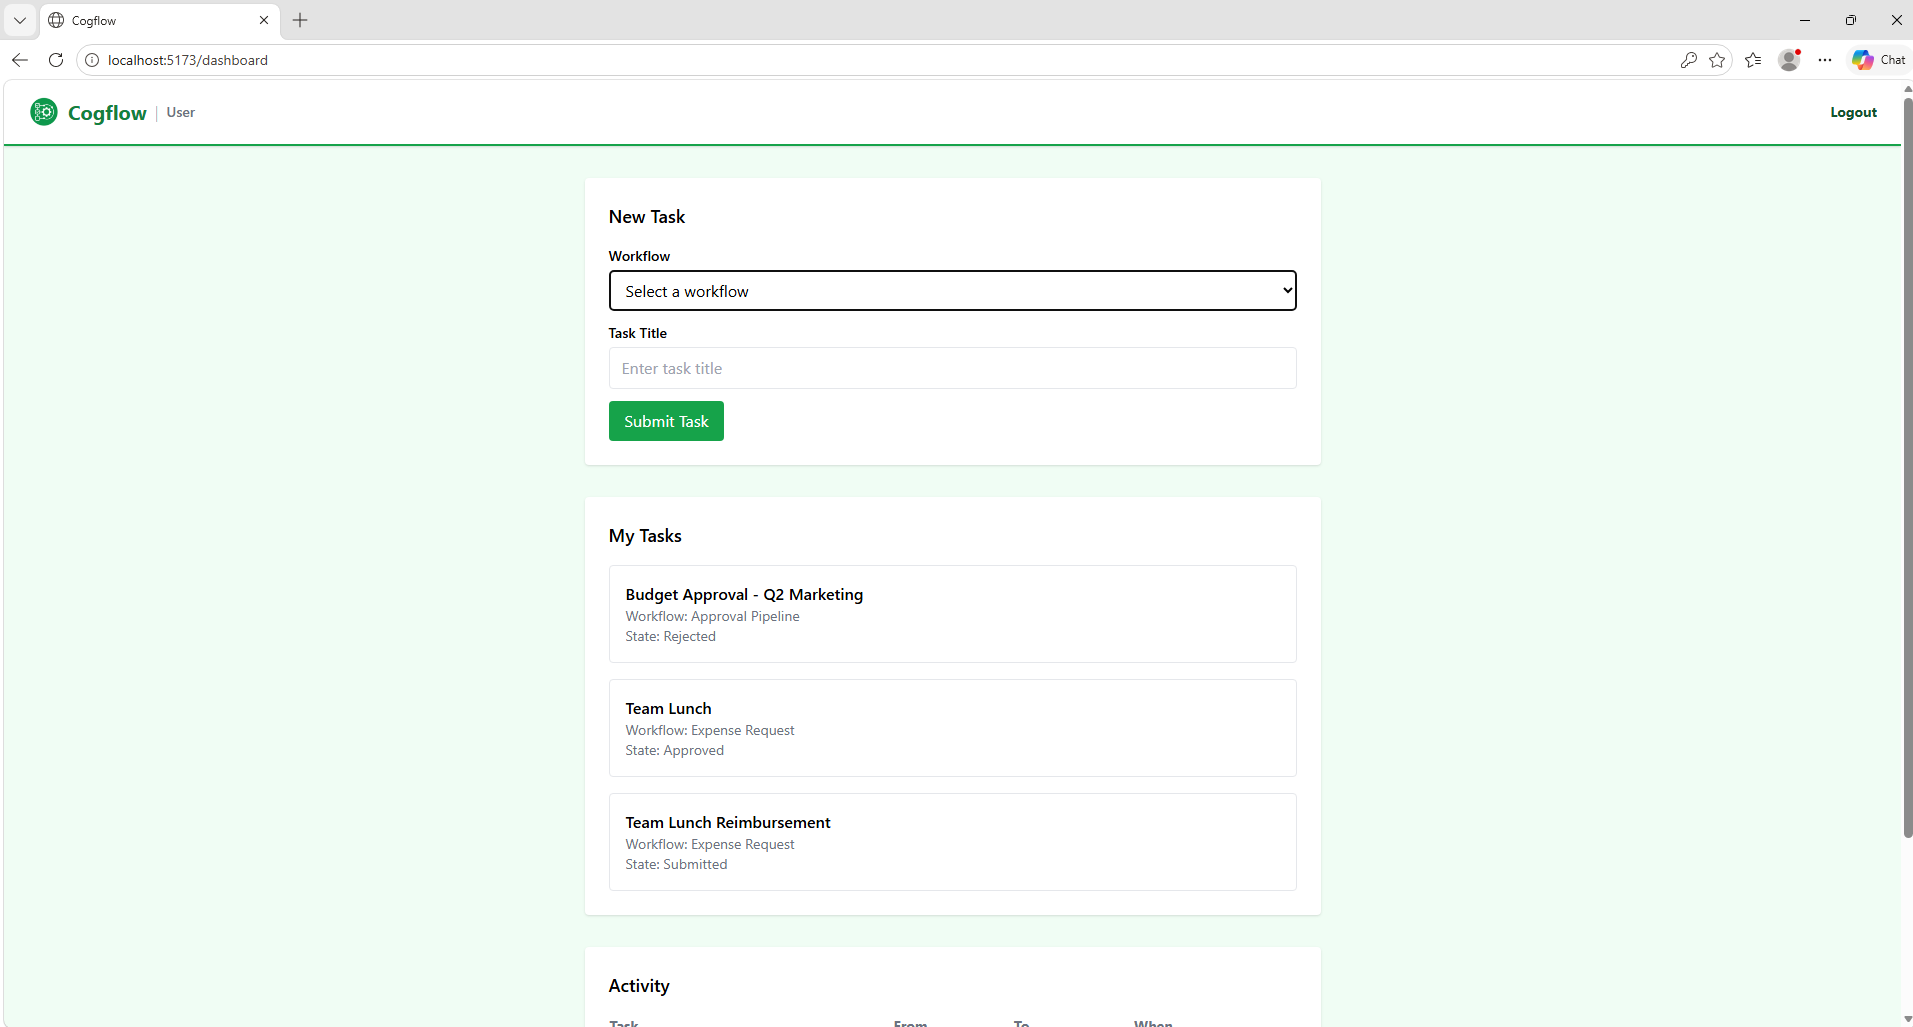
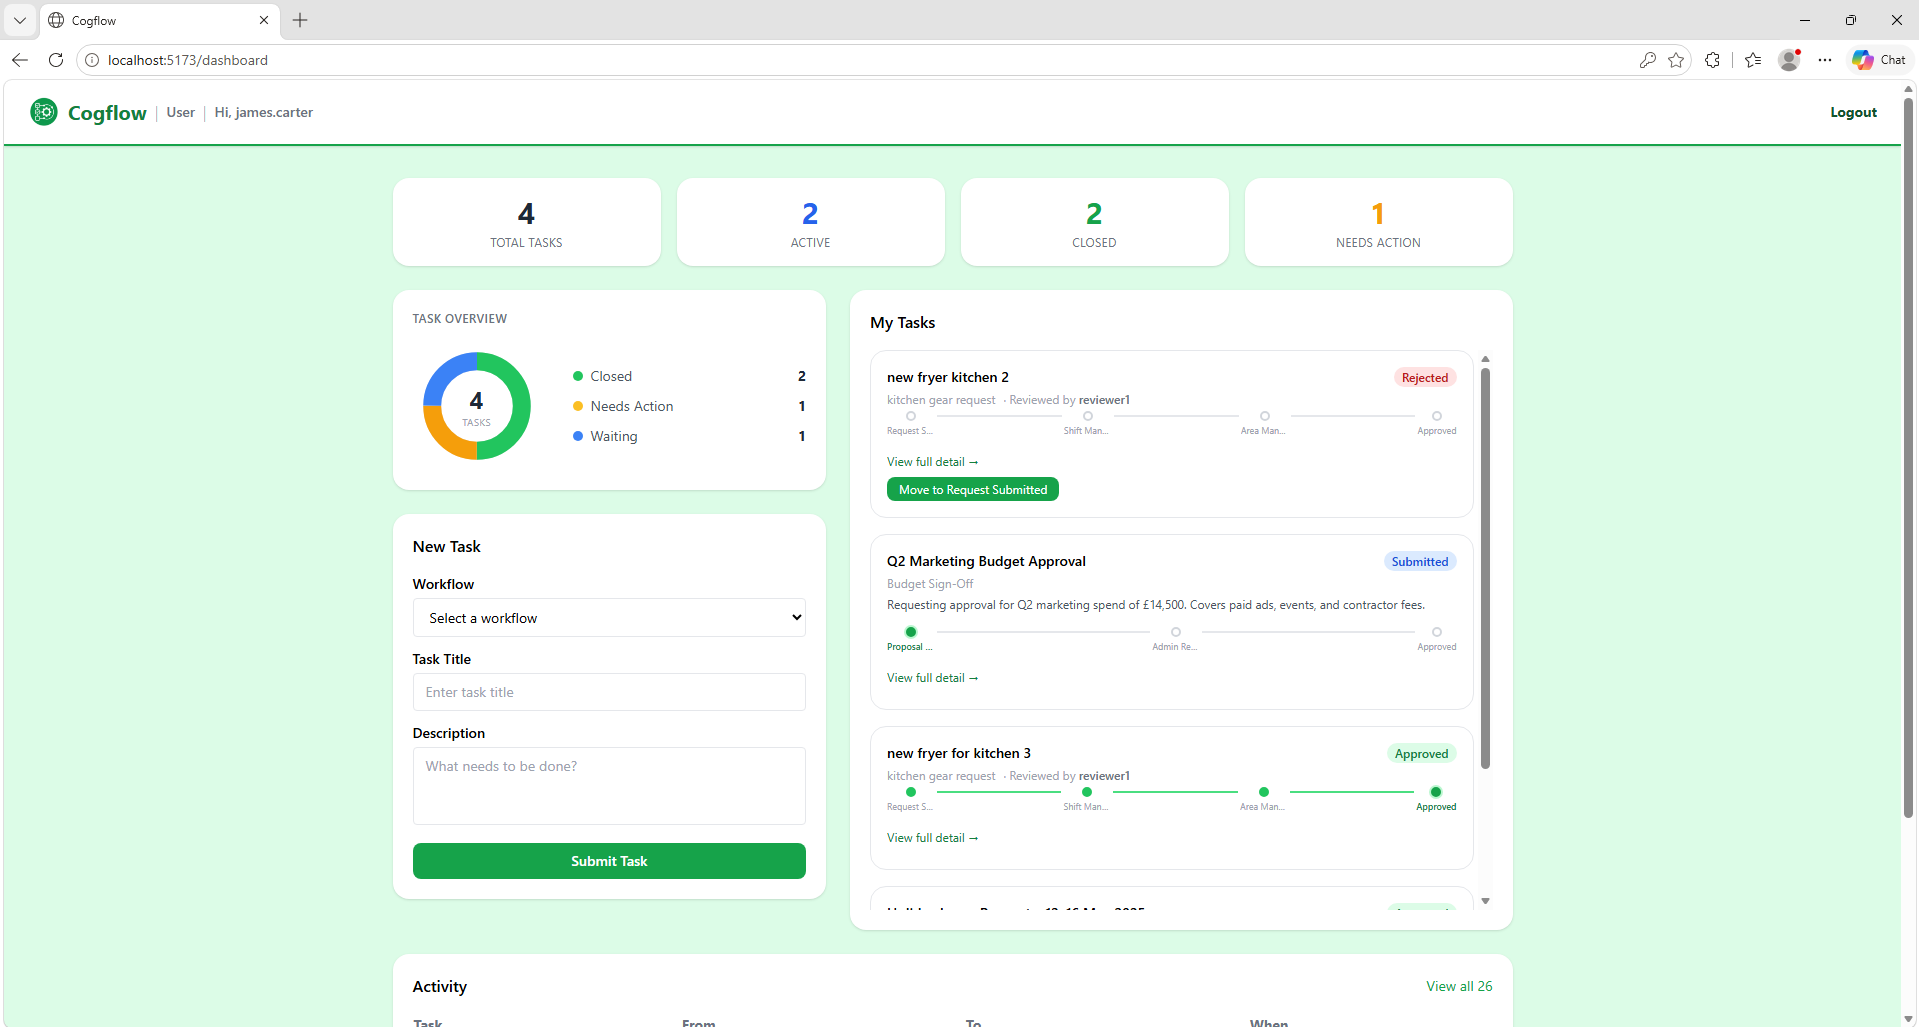
docs: update screenshots

diff --git a/README.md b/README.md
@@ -1,64 +1,116 @@
 # Cogflow
 
-A role-based workflow engine that models business approval processes as state machines. Admins define workflows with states and transitions, users submit tasks that move through those states, and every transition is recorded in an audit log.
+Built with FastAPI, React, PostgreSQL, and GPT-4o.
 
-Built with FastAPI, PostgreSQL, and React.
+## Project Summary
+
+Cogflow is a full-stack workflow automation platform for modelling approval processes as role-based state machines. Admins define workflows visually, users submit tasks, reviewers move tasks through authorised transitions, and every change is recorded in an audit log.
+
+The project demonstrates backend-enforced RBAC, state-machine transition validation, PostgreSQL persistence, auditability, and AI-assisted workflow generation through Cogsy, a GPT-4o-powered assistant.
 
 ## Screenshots
 
-![Welcome](frontend/src/assets/welcome_page.png)
+![Welcome](docs/screenshots/welcome_screen.png)
 
 <table>
   <tr>
-    <td><img src="frontend/src/assets/login_page.png"/></td>
-    <td><img src="docs/screenshots/admin_workflow_builder.png"/></td>
+    <td align="center"><sub>Login</sub></td>
+    <td align="center"><sub>About</sub></td>
   </tr>
   <tr>
-    <td><img src="docs/screenshots/new_user_dashboard.png"/></td>
+    <td><img src="docs/screenshots/login_page.png"/></td>
+    <td><img src="docs/screenshots/about.png"/></td>
+  </tr>
+  <tr>
+    <td align="center"><sub>Workflow Builder</sub></td>
+    <td align="center"><sub>Workflow Canvas</sub></td>
+  </tr>
+  <tr>
+    <td><img src="docs/screenshots/workflow_builder.png"/></td>
+    <td><img src="docs/screenshots/Canvas.png"/></td>
+  </tr>
+  <tr>
+    <td align="center"><sub>User Dashboard</sub></td>
+    <td align="center"><sub>Task Detail</sub></td>
+  </tr>
+  <tr>
+    <td><img src="docs/screenshots/user_dashboard.png"/></td>
+    <td><img src="docs/screenshots/details_screen.png"/></td>
+  </tr>
+  <tr>
+    <td align="center"><sub>Reviewer Dashboard</sub></td>
+    <td align="center"><sub>Audit Logs</sub></td>
+  </tr>
+  <tr>
+    <td><img src="docs/screenshots/reviewer_dashboard.png"/></td>
     <td><img src="docs/screenshots/admin_audit_logs.png"/></td>
   </tr>
 </table>
 
 ## Features
 
+**Core**
 - JWT authentication with role-based access control (admin, reviewer, user)
-- Admin panel to build workflows: define states, transitions, and required roles
+- Admin panel to build workflows: define states, transitions, and required roles per transition
+- Visual workflow canvas showing the state machine as a graph
 - Users submit tasks that are automatically placed in the initial state
 - Role-enforced state transitions — only authorised roles can move a task forward
-- Full audit log of every state transition
+- Full audit log of every state transition with timestamps
 - Admin user management: create and deactivate accounts
+- Dead-end state detection — the builder highlights states with no outgoing transitions
+
+**Cogsy — AI Workflow Assistant**
+- Integrated GPT-4o chat assistant for designing workflows from plain English descriptions
+- Preview flow — Cogsy describes the plan before building, prompting the admin to confirm
+- Redundancy detection — flags conflicting or redundant transitions with an explain-and-confirm pattern
+- Multi-turn conversation history scoped per workflow, persisted in localStorage
+- Role interpretation — correctly maps business language ("admin can terminate") to workflow structure
+- Animated mascot with idle, thinking, and cheer states reflecting the assistant's current activity
+- Apply-without-second-call pattern — flagged workflows held in pending state, saved only on confirmation
+
+## Tech Stack
+
+- **Backend**: Python 3.12, FastAPI, SQLAlchemy, Alembic, PostgreSQL
+- **Auth**: JWT (python-jose), bcrypt (passlib)
+- **AI**: OpenAI GPT-4o via the OpenAI Python SDK
+- **Frontend**: React 18, Vite, Tailwind CSS, Axios
+- **Testing**: Pytest with SQLite test database
 
 ## Project Structure
 
 ```
 role-based-workflow-engine/
 ├── backend/        # FastAPI application
+│   ├── app/
+│   │   ├── api/        # Route handlers (auth, workflows, tasks, ai, audit)
+│   │   ├── models/     # SQLAlchemy models
+│   │   ├── schemas/    # Pydantic schemas
+│   │   ├── services/   # Business logic
+│   │   └── core/       # Auth, config, dependencies
+│   └── tests/          # Pytest test suites
 ├── frontend/       # React (Vite) application
-└── docs/           # Architecture diagrams and requirements
+│   └── src/
+│       ├── components/ # WorkflowCanvas, MascotChat
+│       ├── pages/      # Admin, Reviewer, User dashboards
+│       ├── api/        # Axios API clients
+│       └── hooks/      # useAdmin, useReviewer
+└── docs/           # Architecture diagrams and screenshots
 ```
 
-## Tech Stack
+## Getting Started
 
-- **Backend**: Python 3.12, FastAPI, SQLAlchemy, Alembic, PostgreSQL
-- **Auth**: JWT (python-jose), bcrypt (passlib)
-- **Frontend**: React 18, Vite, Tailwind CSS, Axios
-- **Testing**: Pytest
-
-## Prerequisites
+### Prerequisites
 
 - Python 3.12+
 - Node.js 18+
-- PostgreSQL (or Docker to run it in a container)
-
-## Getting Started
+- Docker (for PostgreSQL)
+- OpenAI API key
 
 ### 1. Start the database
 
 ```bash
 docker run --name workflow-db -e POSTGRES_PASSWORD=postgres -e POSTGRES_DB=workflow -p 5432:5432 -d postgres
 ```
-
-Or point `DATABASE_URL` in `.env` at an existing PostgreSQL instance.
 
 ### 2. Backend
 
@@ -67,13 +119,13 @@ cd backend
 python -m venv .venv
 source .venv/bin/activate  # Windows: .venv\Scripts\activate
 pip install -r requirements.txt
-cp .env.example .env       # fill in your values
+cp .env.example .env       # fill in DATABASE_URL and OPENAI_API_KEY
 alembic upgrade head
-python seed.py             # creates the first admin account
+python seed.py
 uvicorn app.main:app --reload
 ```
 
-API docs available at: `http://localhost:8000/docs`
+API docs: `http://localhost:8000/docs`
 
 ### 3. Frontend
 
@@ -83,7 +135,7 @@ npm install
 npm run dev
 ```
 
-App runs at: `http://localhost:5173`
+App: `http://localhost:5173`
 
 ## Default Admin Credentials
 
@@ -100,25 +152,22 @@ Change these after first login.
 
 ```bash
 cd backend
-pytest tests/
+pytest tests/ -v
 ```
 
-## Known Limitations
-
-- Workflow misconfiguration can create dead-end states; builder highlights but does not fully prevent them.
-- Reviewer and user share a unified dashboard, limiting role-specific UX.
-- No real-time or in-app notifications; users must manually check task status.
+Tests use an isolated SQLite database and cover auth, workflows, states, tasks, transitions, and audit logs.
 
 ## Design Decisions
 
-- Role-based access control enforced strictly at the backend; client cannot bypass it.
-- JWT stored in localStorage for simplicity; production should use secure httpOnly cookies.
-- Schema migrations managed with Alembic for versioning and rollback.
+- Role-based access control enforced at the backend — the client cannot bypass it
+- Cogsy uses a structured system prompt with explicit role interpretation rules to prevent common AI misinterpretations (e.g. "admin can terminate" generating approve/reject transitions instead)
+- Warn/apply pattern avoids a second GPT call on confirmation — the pending workflow is held in frontend state and posted directly to `/ai/apply-workflow`
+- JWT stored in sessionStorage (clears on tab close); production should use httpOnly cookies
+- Schema migrations managed with Alembic
 
 ## Roadmap
 
-- Deploy backend to Railway or Render and frontend to Vercel
-- Add real-time notifications (WebSockets or polling fallback)
-- Enforce strict workflow validation before task creation
-- Introduce multi-tenancy
-- Mobile client using React Native + Expo
+- Deploy backend to Railway or Render, frontend to Vercel
+- Real-time task notifications via WebSockets
+- Multi-tenancy support
+- Mobile client with React Native + Expo
